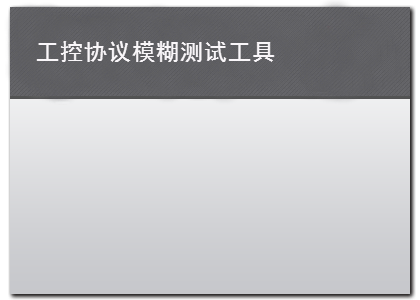
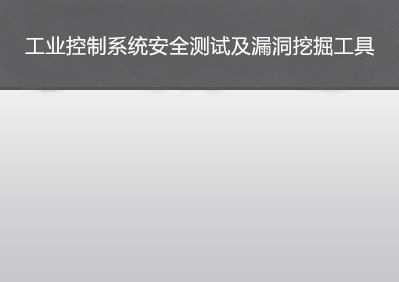
修改项目名称

Changed region(s): [[0.0, 0.0, 1.0, 1.0]]

diff --git a/WebRoot/commons/js/newcss.css b/WebRoot/commons/js/newcss.css
@@ -15,7 +15,7 @@ width:expression_r(document.body.clientWidth < 780 ? "780px": "auto" );}
 /*top*/
 .top{ width:100%; height:66px; margin-bottom:3px;}
 .top_div{ width:100%; height:60px; background:url(../../images/top_bg.gif) repeat-x;}
-.top_div div.logo{ width:472px; height:60px; background:url(../../images/top_logo.gif) no-repeat; float:left;}
+.top_div div.logo{ width:472px; height:60px; background:url(../../images/top_logo.jpg) no-repeat; float:left;}
 .top_div div.right{ width:290px; height:60px; background:url(../../images/top_right.gif) no-repeat right; color:#fff; float:right; font-size:12px;}
 .top_div div.right div.right_top{ width:270px; height:25px; margin-top:20px; margin-right:25px;}
 .top_div div.right div.welcome{ width:520px; height:25px; line-height:25px; float:right;}

diff --git a/WebRoot/commons/css/newcss.css b/WebRoot/commons/css/newcss.css
@@ -9,7 +9,7 @@ body{ margin:0px; padding:3px; background:#485566; padding-bottom:0px;}
 /*top*/
 .top{ width:100%; height:66px; margin-bottom:3px;}
 .top_div{ width:100%; height:60px; background:url(../../images/top_bg.gif) repeat-x;}
-.top_div div.logo{ width:472px; height:60px; background:url(../../images/top_logo.gif) no-repeat; float:left;}
+.top_div div.logo{ width:472px; height:60px; background:url(../../images/top_logo.jpg) no-repeat; float:left;}
 .top_div div.right{ width:290px; height:40px; background:url(../../images/top_right.gif) no-repeat right; color:#fff; float:right; font-size:12px;}
 .top_div div.right div.right_top{ width:270px; height:25px; margin-top:35px; margin-right:25px;}
 .top_div div.right div.welcome{ width:520px; height:25px; line-height:25px; float:right;}

diff --git a/src/com/wnt/web/testresult/service/impl/PdfServiceImpl.java b/src/com/wnt/web/testresult/service/impl/PdfServiceImpl.java
@@ -150,7 +150,7 @@ public class PdfServiceImpl implements PdfService {
 			endTime = Timestamp.valueOf(map2.get("ENDTIME").toString());
 		}
 		//{ "测试平台：", "漏洞挖掘测试平台 Version 001 R 001" }
-		String[][] content = { { "测试平台：", "工控协议模糊测试工具" }, { "被测设备：", name }, { "设备型号：", version },
+		String[][] content = { { "测试平台：", "工业控制系统安全测试及漏洞挖掘工具" }, { "被测设备：", name }, { "设备型号：", version },
 				{ "备注信息：", remark }, { "测试时间：", datetime(beginTime) + "到" + datetime(endTime) },
 				{ "报告生成：", DataUtils.formatDateTime() } };
 
